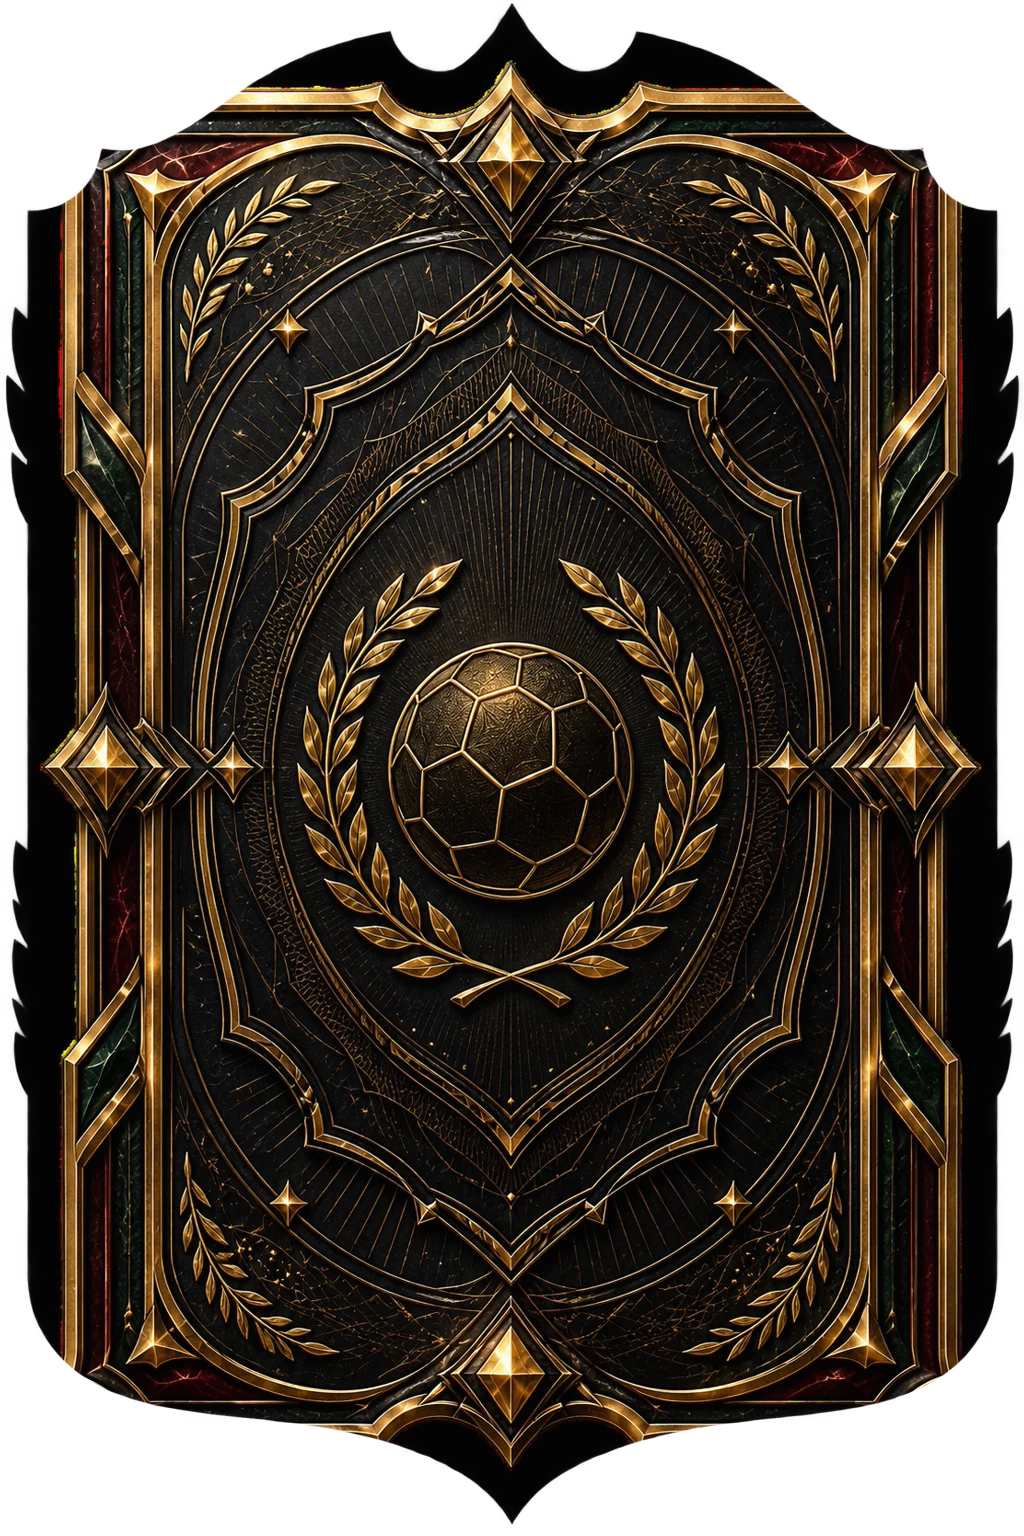
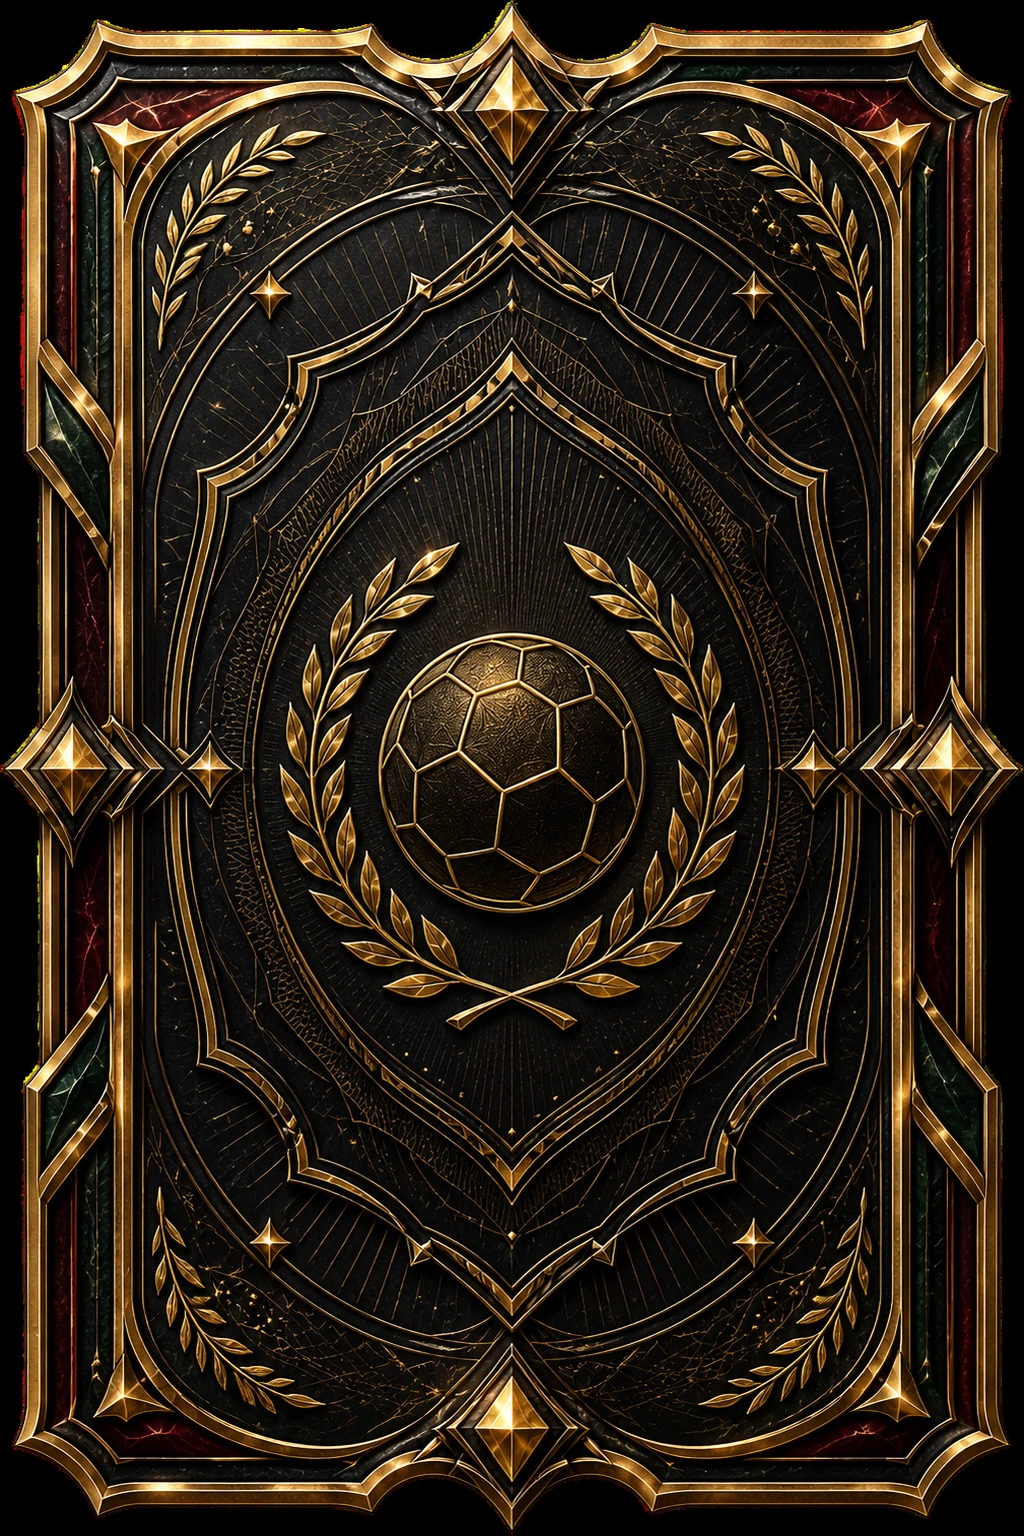
fix(packs): mask the card back with each card's own face art
The back was cut to the Legends silhouette at export time — but card
fronts do not share one outline. Gold and silver are plain shields, icon
carries an inner cut-out ring, and every pack frame is notched
differently, so on most cards the back poked past or fell short of the
face it flipped into, and the pre-baked cut also sliced through the
artwork's own border.

The asset is now shipped FULL-BLEED with no baked alpha, and CardBack
masks it at render time with the same getPlayerCardArt url the card's
face renders. Back and front are geometrically identical for every card
by construction — tier shields, pack frames and the Ballon d'Or card
alike — and the artwork runs edge to edge inside whatever outline the
card actually has. The shimmer sweep rides inside the same mask.

Claude-Session: https://claude.ai/code/session_01PrXo4bcs5QpKGWBN2ULT5b

diff --git a/src/components/game/pack/CardBack.tsx b/src/components/game/pack/CardBack.tsx
@@ -1,19 +1,19 @@
 /**
  * The face-down side of a player card.
  *
- * One universal back for every pack. The tier tell lives in the glow and the
- * holographic ring the callers draw OUTSIDE the card edge, not in the artwork,
- * so a single asset serves Champions through Legends.
+ * One universal FULL-BLEED artwork (`CARD_BACK_SRC`, 1024x1536, no alpha),
+ * masked at render time to the silhouette of the card it is about to flip
+ * into. The mask is not decorative: card fronts do NOT share one outline —
+ * gold/silver are plain shields, icon carries an inner cut-out ring, and each
+ * pack frame is notched differently. A back baked to any single silhouette
+ * (the first cut used the Legends outline) pokes out past or falls short of
+ * every other card's edge, and the pre-baked cut also sliced through the
+ * artwork's own border. Masking with the SAME art url the front renders makes
+ * back and front geometrically identical for every card, by construction.
  *
- * Geometry is not decorative here. The front is a `PlayerCard` whose ALPHA is
- * the card's edge (a scalloped shield, `aspect-[2/3]`, 1024x1536 art). The
- * back it flips out of must be the same aspect and the same silhouette, or the
- * card changes shape mid-flip — the walkout back used to be a rounded 3:4
- * rectangle, 41px shorter than the face it turned into.
- *
- * The shimmer is therefore masked to the artwork's own alpha, the same way
- * PlayerCard masks its legibility scrim: an unmasked sweep would draw a
- * rectangle across the transparent corners the card does not have.
+ * The shimmer sweep rides inside the same mask, the way PlayerCard masks its
+ * legibility scrim — unmasked it would draw a rectangle across transparent
+ * corners the card does not have.
  */
 import { motion } from 'framer-motion';
 import { CARD_BACK_SRC } from '@/config/packs';
@@ -21,36 +21,42 @@ import { useReducedMotionPref } from '@/hooks/useReducedMotionPref';
 import { cn } from '@/lib/utils';
 
 interface CardBackProps {
+  /**
+   * URL of the artwork the card's FACE renders (from `getPlayerCardArt`).
+   * Its alpha channel becomes this back's outline, so the flip is
+   * shape-perfect whatever tier shield or pack frame the player carries.
+   */
+  maskSrc: string;
   /** Suppress the shimmer sweep once the card has turned. */
   revealed?: boolean;
   className?: string;
 }
 
-export function CardBack({ revealed = false, className }: CardBackProps) {
+export function CardBack({ maskSrc, revealed = false, className }: CardBackProps) {
   const prefersReducedMotion = useReducedMotionPref();
-  const mask = {
-    WebkitMaskImage: `url(${CARD_BACK_SRC})`,
-    maskImage: `url(${CARD_BACK_SRC})`,
-    WebkitMaskSize: '100% 100%',
-    maskSize: '100% 100%',
-    WebkitMaskRepeat: 'no-repeat',
-    maskRepeat: 'no-repeat',
-  } as const;
-
   return (
-    <div className={cn('absolute inset-0 overflow-hidden', className)}>
+    <div
+      className={cn('absolute inset-0 overflow-hidden', className)}
+      style={{
+        WebkitMaskImage: `url(${maskSrc})`,
+        maskImage: `url(${maskSrc})`,
+        WebkitMaskSize: '100% 100%',
+        maskSize: '100% 100%',
+        WebkitMaskRepeat: 'no-repeat',
+        maskRepeat: 'no-repeat',
+      }}
+    >
       <img
         src={CARD_BACK_SRC}
         alt=""
         aria-hidden
         draggable={false}
-        className="absolute inset-0 w-full h-full object-contain select-none"
+        className="absolute inset-0 w-full h-full object-fill select-none"
       />
       {!prefersReducedMotion && !revealed && (
         <motion.div
           className="absolute inset-0 pointer-events-none"
           style={{
-            ...mask,
             background: 'linear-gradient(115deg, transparent 38%, rgba(255,255,255,0.18) 50%, transparent 62%)',
           }}
           initial={{ x: '-100%' }}

diff --git a/src/components/game/pack/WalkoutReveal.tsx b/src/components/game/pack/WalkoutReveal.tsx
@@ -4,6 +4,7 @@ import { motion, AnimatePresence } from 'framer-motion';
 import { useReducedMotionPref } from '@/hooks/useReducedMotionPref';
 import type { Player } from '@/types/game';
 import { CardBack } from '@/components/game/pack/CardBack';
+import { getPlayerCardArt } from '@/utils/uiHelpers';
 import { PlayerCard } from '@/components/game/PlayerCard';
 import { PACK_ANIM, LEGENDARY_OVR_THRESHOLD } from '@/config/packs';
 import { tierForOvr } from './packHelpers';
@@ -361,6 +362,13 @@ export function WalkoutReveal({ player, onComplete, onAdvance }: WalkoutRevealPr
   // Held-breath beat — visual cue is that we briefly de-saturate the halo
   // / dim the particles so the moment really lands as silence.
   const isBreath = phase === 'breath';
+  // The back is masked with the SAME art the face renders, so the flip is
+  // shape-perfect whatever shield or frame this player carries. Mirrors the
+  // getPlayerCardArt call inside PlayerCard (never a chip at this size).
+  const backMaskSrc = getPlayerCardArt(player.overall, {
+    ballonDorTop10: typeof player.ballonDOrTop10HoldSeason === 'number',
+    packFrame: player.packFrame,
+  }).src;
   const tierGradient = `linear-gradient(135deg, ${tier.gradientFrom} 0%, ${tier.gradientVia} 45%, ${tier.gradientTo} 100%)`;
 
   return (
@@ -587,7 +595,7 @@ export function WalkoutReveal({ player, onComplete, onAdvance }: WalkoutRevealPr
           {/* Back — one universal card back, same silhouette and aspect as
               the face it turns into (see CardBack). */}
           <div className="absolute inset-0" style={{ backfaceVisibility: 'hidden' }}>
-            <CardBack revealed={revealed} />
+            <CardBack maskSrc={backMaskSrc} revealed={revealed} />
           </div>
 
           {/* Face — the real PlayerCard, reused across the app. Scaled up to

diff --git a/src/components/game/pack/PackCard.tsx b/src/components/game/pack/PackCard.tsx
@@ -7,6 +7,7 @@ import { tierForOvr } from './packHelpers';
 import { PACK_ANIM } from '@/config/packs';
 import { hapticMedium } from '@/utils/haptics';
 import { CardBack } from '@/components/game/pack/CardBack';
+import { getPlayerCardArt } from '@/utils/uiHelpers';
 import { PlayerCard, PLAYER_CARD_SIZE_PX } from '@/components/game/PlayerCard';
 import { PackCardAura } from './PackCardAura';
 
@@ -46,6 +47,12 @@ interface PackCardProps {
  */
 export const PackCard = memo(function PackCard({ player, revealed, onReveal, entranceDelay = 0, onDismiss }: PackCardProps) {
   const tier = tierForOvr(player.overall);
+  // Mask the back with the face's own art so the flip never changes shape —
+  // fronts do not share one silhouette (tier shields vs pack frames).
+  const backMaskSrc = getPlayerCardArt(player.overall, {
+    ballonDorTop10: typeof player.ballonDOrTop10HoldSeason === 'number',
+    packFrame: player.packFrame,
+  }).src;
   const prefersReducedMotion = useReducedMotionPref();
   // The reveal renders PlayerCard at `lg`, which is a 2:3 card whose artwork
   // supplies its own edge. So the wrapper must not put a rounded box or a glow
@@ -117,7 +124,7 @@ export const PackCard = memo(function PackCard({ player, revealed, onReveal, ent
         {/* Back — the shared universal card back. Same asset the walkout
             uses, so the grid reveal and the hero reveal are one language. */}
         <div className="absolute inset-0" style={{ backfaceVisibility: 'hidden' }}>
-          <CardBack revealed={revealed} />
+          <CardBack maskSrc={backMaskSrc} revealed={revealed} />
         </div>
 
         <div
